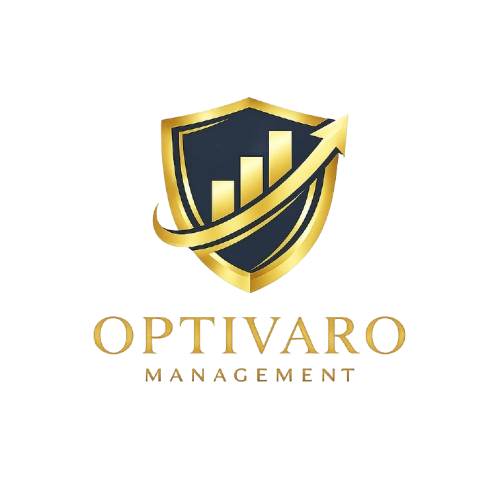
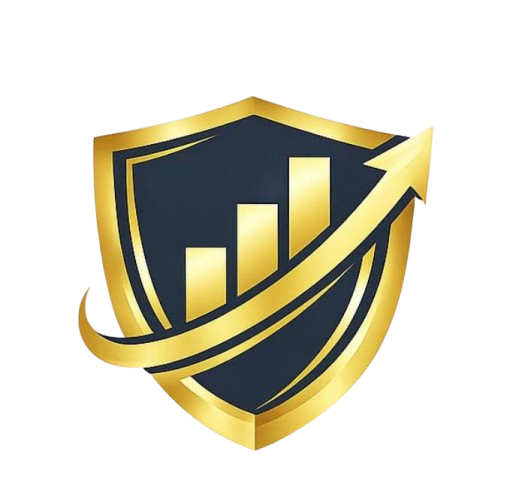
change pic

diff --git a/optivaro_v2.7/src/App.vue b/optivaro_v2.7/src/App.vue
@@ -7,10 +7,11 @@
     </div>
     <nav class="top-nav" v-if="!isAdmin">
       <router-link to="/" class="nav-brand">
-              <div><div class="brand-name">OPTIVARO</div><div class="brand-sub">Ihr Energievergleich</div></div>
-        <OptivaroLogo :size="106" />
-  
-      </router-link>
+  <div><div class="brand-name">OPTIVARO</div><div class="brand-sub">Ihr Energievergleich</div></div>
+</router-link>
+<div class="nav-logo-right">
+  <OptivaroLogo :size="106" />
+</div>
       <div class="nav-links">
         <router-link to="/" class="nav-link" exact-active-class="active">Startseite</router-link>
         <router-link to="/anbieter" class="nav-link" active-class="active">Anbieter</router-link>
@@ -138,4 +139,7 @@ const isLogin = computed(() => route.path === '/login')
 .page-enter-from{opacity:0;transform:translateY(8px);}
 .page-leave-to{opacity:0;}
 @media(max-width:680px){.nav-links{display:none}.burger{display:flex}.top-nav{padding:0 20px;flex-direction:row-reverse}.nav-brand{margin-right:auto}.footer-inner{grid-template-columns:1fr}}
+
+.nav-logo-right{display:flex;align-items:center;margin-left:auto;}
+@media(max-width:680px){.nav-logo-right{display:none;}}
 </style>